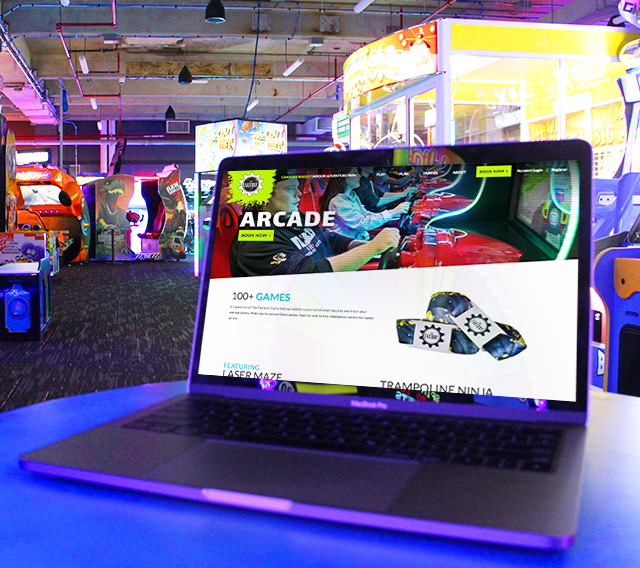
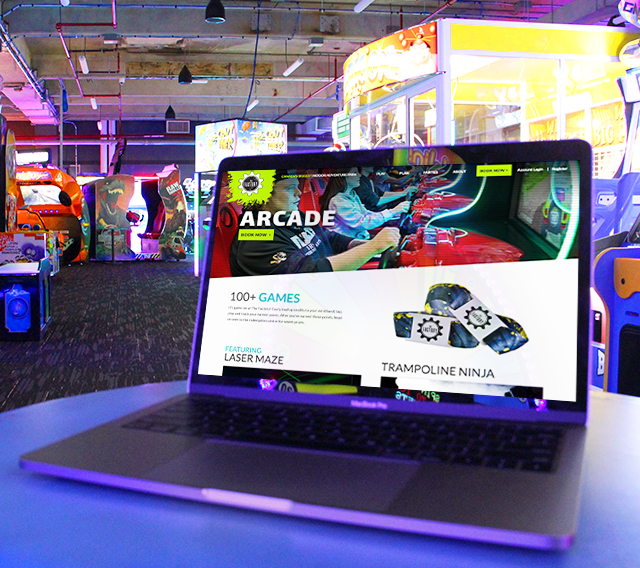
V03 QA Changes to Services Parent page - Includes replacement of assets - New image for Homepage team section - fixed responsiveness

Changed region(s): [[0.0, 0.6585, 1.0, 1.0], [0.3438, 0.2694, 0.9062, 0.7183], [0.3438, 0.5986, 0.5625, 0.6884]]

diff --git a/src/components/modules/featured-content.vue b/src/components/modules/featured-content.vue
@@ -92,10 +92,15 @@ import CircleBarDecoration     from '../shared/circle-bar-decoration.vue';
     margin-right: 5vw;
     position: relative;
     z-index: 2;
+    margin-top: 70px;
 
     @media #{$portrait} {
       width: 100%;
       margin: 100px auto;
+    }
+
+    @media #{$phone-only} {
+      margin: 85px auto 25px;
     }
 
     // Green decorative background lines
@@ -111,7 +116,12 @@ import CircleBarDecoration     from '../shared/circle-bar-decoration.vue';
       @media #{$portrait} {
         top: -50px;
         left: -100px;
-        bottom: 50px;
+        bottom: 15vh;
+      }
+
+      @media #{$laptop-only} {
+        left: -25px;
+        top: -25px;
       }
     }
 
@@ -144,7 +154,7 @@ import CircleBarDecoration     from '../shared/circle-bar-decoration.vue';
     }
 
     .mdev-service-desc {
-      width: 60%;
+      width: 55%;
 
       @media #{$portrait} {
         width: 100%;
@@ -152,7 +162,7 @@ import CircleBarDecoration     from '../shared/circle-bar-decoration.vue';
     }
 
     .mdev-service-topics {
-      width: 30%;
+      width: 35%;
       margin-top: 0;
 
       @media #{$portrait} {
@@ -187,6 +197,11 @@ import CircleBarDecoration     from '../shared/circle-bar-decoration.vue';
       left: -100px;
       right: 15%;
     }
+
+    @media #{$laptop-only} {
+      bottom: -25px;
+      right: -25px;
+    }
   }
 }
 
@@ -218,6 +233,11 @@ import CircleBarDecoration     from '../shared/circle-bar-decoration.vue';
         top: -50px;
         bottom: -50px;
         right: 10%;
+      }
+
+      @media #{$laptop-only} {
+        top: -25px;
+        bottom: -25px;
       }
     }
   }

diff --git a/src/mdev-data.js b/src/mdev-data.js
@@ -371,7 +371,7 @@ export default  {
       ],
       description: 'We specialize in designing carefully crafted custom sites to showcase your unique offerings. Our digital team keeps on top of the latest web trends and coding practices to produce clear user journeys and enjoyable web experiences. After a collaborative planning process, you can sit back while we put a laser-focus on all the details, large and small.',
       topics: [
-        'Custom Website Design & Development',
+        'Custom Design & Development',
         'Ecommerce',
         'Mobile-friendly Websites',
         'WCAG 2.0 Accessibility'
@@ -462,7 +462,7 @@ export default  {
       BtnData: {
         accessibility: 'Explore our Business Support services.',
         btnRoute: '/services/consulting',
-        btnClass: 'mdev-btn mdev-primary-btn mdev-btn-dark-text'
+        btnClass: 'mdev-btn mdev-primary-btn mdev-btn-dark-text --space-top-xs'
       },
       config: {
         showDecoration: false,

diff --git a/src/assets/styles/keyframes/hero-anim.scss b/src/assets/styles/keyframes/hero-anim.scss
@@ -1,6 +1,7 @@
 // Keyframe Animations for Hero Header
 $hero-polygon-start: polygon(50% 0%, 100% 0, 100% 100%, 50% 100%, 0 100%, 0 0);
 $hero-polygon-end: polygon(50% 0%, 100% 0, 100% 90%, 50% 100%, 0 90%, 0 0);
+$hero-polygon-prt-end: polygon(50% 0%, 100% 0, 100% 95%, 50% 100%, 0 95%, 0 0);
 // Controls the open and close animation
 // at the bottom of the hero-main.vue
 @keyframes hero-animation {
@@ -9,6 +10,14 @@ $hero-polygon-end: polygon(50% 0%, 100% 0, 100% 90%, 50% 100%, 0 90%, 0 0);
   }
   100% {
     clip-path: $hero-polygon-end;
+  }
+}
+@keyframes hero-animation-prt {
+  0% {
+    clip-path: $hero-polygon-start;
+  }
+  100% {
+    clip-path: $hero-polygon-prt-end;
   }
 }
 // Controls the pulsating arrow effect

diff --git a/src/components/services/service--all.vue b/src/components/services/service--all.vue
@@ -207,24 +207,32 @@ export default{
   }
 
   @media #{$phone-only} {
-    padding-top: 150%;
-    padding-bottom: 10%;
+    padding-top: 125%;
   }
 
   @media #{$tablet-lnd-only} {
     padding-top: 45%;
+  }
+
+  @media #{$tablet-prt-only} {
+    padding-top: 95%;
   }
 }
 
 .mdev-service {
   .mdev-service-index {
     font-size: 40px;
+    font-weight: 100;
     line-height: 1.5;
   }
 
   .mdev-service-topics {
     line-height: 1.82;
     font-size: 20px;
+
+    @media #{$phone-only} {
+      font-size: 10px;
+    }
   }
 
   .mdev-service-desc {

diff --git a/src/assets/styles/scaffolding.scss b/src/assets/styles/scaffolding.scss
@@ -69,12 +69,27 @@
 }
 
 .--featured-space {
-  margin-top: 250px;
-  margin-bottom: 250px;
+  margin-top: 200px;
+  margin-bottom: 200px;
 
   @media #{$portrait} {
-    margin-top: 150px;
-    margin-bottom: 150px;
+    margin-top: 100px;
+    margin-bottom: 100px;
+  }
+
+  @media #{$laptop-only} {
+    margin-top: 100px;
+    margin-bottom: 100px;
+  }
+
+  @media #{$tablet-prt-only} {
+    margin-top: 50px;
+    margin-bottom: 50px;
+  }
+
+  @media #{$phone-only} {
+    margin-top: 25px;
+    margin-bottom: 25px;
   }
 }
 

diff --git a/src/components/home/home--about.vue b/src/components/home/home--about.vue
@@ -25,8 +25,8 @@ export default {
   data: function() {
     return {
       mdevLogoMask: 'svg/about/MDEV-Cutout.svg',
-      mdevSlogan: 'svg/about/MDEV-Slogan.svg',
-      mdevSloganMob: 'svg/about/MDEV-Slogan-mob.svg',
+      mdevSlogan: 'svg/about/MDEV_Cutout_Text_Desktop.svg',
+      mdevSloganMob: 'svg/about/MDEV_Cutout_Text.svg',
       BtnData: {
         accessibility: 'Learn more about MDEV Digital',
         btnRoute: '/company',

diff --git a/src/components/shared/hero-main.vue b/src/components/shared/hero-main.vue
@@ -232,6 +232,14 @@ $mask-arrow-anim-time: 3.2s;
   animation-timing-function: ease-in-out;
   animation-fill-mode: forwards;
 
+  @media #{$portrait} {
+    animation: hero-animation-prt;
+    animation-duration: $mask-hero-anim-time;
+    animation-iteration-count: 1;
+    animation-timing-function: ease-in-out;
+    animation-fill-mode: forwards;
+  }
+
   .mdev-page-title {
     opacity: 1;
   }

diff --git a/src/assets/styles/typography.scss b/src/assets/styles/typography.scss
@@ -38,7 +38,7 @@ $h1-font-sizes: (
   null  : 2.5vw,
   $portrait : 5.3vw,
   $laptop-only : 3vw,
-  $phone-only: 8vw
+  $phone-only: 18px
 );
 
 $h2-font-sizes: (
@@ -118,6 +118,15 @@ h1,
 h2,
 .h2 {
   @include font-size($h2-font-sizes);
+  line-height: 84%;
+
+  @media #{$laptop-only} {
+    margin-bottom: 15px;
+  }
+
+  @media #{$phone-only} {
+    margin-bottom: 15px;
+  }
 }
 
 h3,

diff --git a/src/components/modules/featured-services.vue b/src/components/modules/featured-services.vue
@@ -57,6 +57,7 @@ export default {
     overflow: visible;
     z-index: 2;
     margin-left: 5vw;
+    margin-top: 70px;
 
     @media #{$portrait} {
       width: 100%;

diff --git a/src/components/modules/media-carousel.vue b/src/components/modules/media-carousel.vue
@@ -181,7 +181,7 @@ $buttonSize: 10px;
 
     @media #{$portrait} {
       margin: 0;
-      padding: 0 20px;
+      padding: 20px;
     }
   }
 
